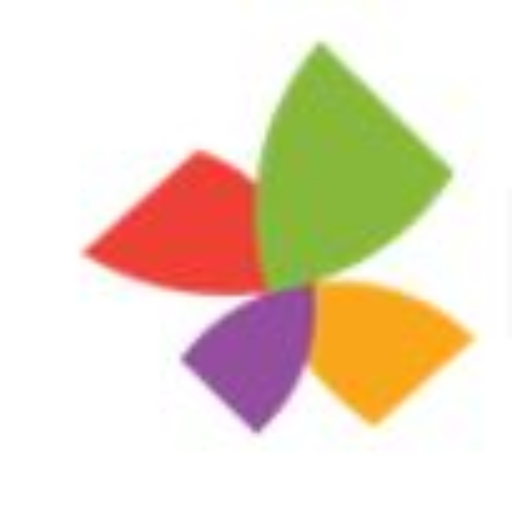
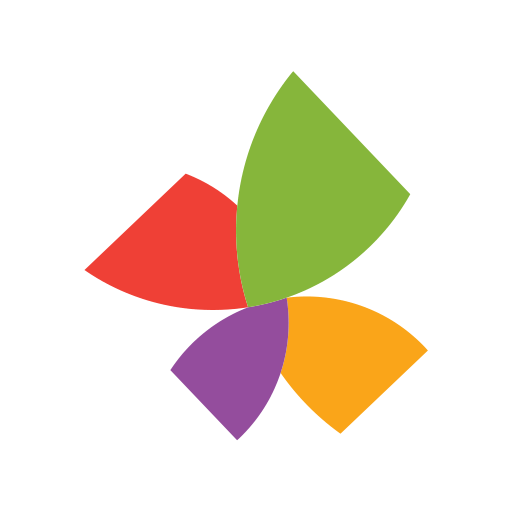
feat: 홈에 "휴대폰에 설치" — PC는 QR, 휴대폰은 갤럭시·아이폰별 설치 순서
- 홈 배너에 "휴대폰에 설치" 버튼
  · PC: 포털 주소 QR + 순서 3단계 + 아이콘 미리보기 + 카카오톡 주의
  · 휴대폰: 갤럭시(삼성 인터넷·크롬) / 아이폰(사파리) 탭으로 "홈 화면에 추가" 순서
- 휴대폰 아이콘을 회사 로고 원본의 리본으로 다시 만듦 (예전 것은 작은 그림을 늘려 흐렸음)
  · android-chrome 192·512, apple-touch-icon 교체, 안드로이드용 maskable-512 추가
- site.webmanifest: 앱처럼 열리게 display standalone, start_url·scope, 아이콘 ?v=3
- 안내창은 기존 orgModal 재사용, isPhone() 을 평가·성과 PC 전용 판단과 같이 씀

Changed region(s): [[0.1562, 0.0625, 0.9375, 0.875]]

diff --git a/public/index.html b/public/index.html
@@ -7,8 +7,12 @@
 <link rel="icon" href="favicon.ico?v=2" sizes="48x48">
 <link rel="icon" type="image/png" sizes="32x32" href="favicon-32x32.png?v=2">
 <link rel="icon" type="image/png" sizes="16x16" href="favicon-16x16.png?v=2">
-<link rel="apple-touch-icon" sizes="180x180" href="apple-touch-icon.png">
+<link rel="apple-touch-icon" sizes="180x180" href="apple-touch-icon.png?v=3">
 <link rel="manifest" href="site.webmanifest">
+<meta name="theme-color" content="#ffffff">
+<meta name="mobile-web-app-capable" content="yes">
+<meta name="apple-mobile-web-app-capable" content="yes">
+<meta name="apple-mobile-web-app-title" content="인사포털">
 <link rel="stylesheet" href="https://cdn.jsdelivr.net/gh/orioncactus/pretendard@v1.3.9/dist/web/static/pretendard.min.css">
 <style>
   /* 배색: 사용자 지정 6색(#D2EEFA #A3D8F1 #54A6E1 #255DAA #DE525E #FCE0D4) 기준.
@@ -159,6 +163,31 @@
   .hero-banner::after{ width:130px; height:130px; right:110px; bottom:-70px; background:var(--bg-warning); }
   .hero-title{ font-size:var(--fs-xl); font-weight:800; color:var(--text-primary); line-height:1.4; letter-spacing:-0.02em; margin:0 0 6px; position:relative; z-index:1; }
   .hero-sub{ font-size:var(--fs-sm); color:#3A4A5E; position:relative; z-index:1; }
+  /* 홈 배너의 "휴대폰에 설치" 버튼과 그 안내창 */
+  .hero-install{ position:absolute; z-index:2; right:28px; top:50%; transform:translateY(-50%); display:inline-flex; align-items:center; gap:8px;
+    padding:11px 18px; border:0; border-radius:999px; background:#fff; color:var(--accent); font-family:inherit; font-size:var(--fs-md); font-weight:700;
+    cursor:pointer; box-shadow:0 6px 18px rgba(37,93,170,.22); }
+  .hero-install:hover{ background:var(--accent-soft); }
+  .hero-install svg{ width:18px; height:18px; }
+  .org-modal .card:has(.inst-qr){ max-width:560px; }
+  .inst{ word-break:keep-all; }
+  .inst-body{ display:flex; gap:22px; align-items:flex-start; }
+  .inst-qr{ flex:none; width:188px; text-align:center; font-size:var(--fs-xs); color:var(--text-muted); }
+  .inst-qr svg{ display:block; width:100%; height:auto; margin-bottom:8px; padding:8px; box-sizing:border-box; border:1px solid var(--border); border-radius:var(--radius); background:#fff; }
+  .inst-steps{ flex:1; min-width:0; margin:0; padding:0; list-style:none; }
+  .inst-steps li{ display:flex; gap:10px; padding:9px 0; border-bottom:1px solid var(--border); line-height:1.5; }
+  .inst-steps li:last-child{ border-bottom:0; }
+  .inst-steps li > i{ flex:none; width:22px; height:22px; margin-top:1px; border-radius:50%; background:var(--accent); color:#fff; font-style:normal; font-size:12px; font-weight:700;
+    display:flex; align-items:center; justify-content:center; }
+  .inst-sub{ margin:12px 0 0; font-size:var(--fs-sm); font-weight:700; color:var(--text-secondary); }
+  .inst-tabs{ display:flex; gap:6px; }
+  .inst-tabs button{ flex:1; min-height:44px; border:1px solid var(--border); border-radius:var(--radius-sm); background:var(--surface); color:var(--text-secondary);
+    font-family:inherit; font-size:var(--fs-md); font-weight:600; cursor:pointer; }
+  .inst-tabs button[aria-pressed="true"]{ background:var(--accent-light); border-color:var(--accent-light); color:var(--accent); font-weight:700; }
+  .inst-app{ display:flex; align-items:center; gap:12px; margin-top:14px; padding:10px 12px; border-radius:var(--radius); background:var(--bg-page); font-size:var(--fs-sm); color:var(--text-secondary); }
+  .inst-app figure{ flex:none; margin:0; text-align:center; font-size:11px; color:var(--text-primary); }
+  .inst-app img{ display:block; width:52px; height:52px; margin:0 auto 4px; border-radius:14px; box-shadow:0 2px 8px rgba(27,36,51,.18); }
+  .inst-note{ margin-top:12px; padding:8px 10px; border-radius:var(--radius-sm); background:var(--bg-warning); color:var(--warning); font-size:var(--fs-xs); line-height:1.5; }
   .field-row{ display:grid; grid-template-columns:1fr 1fr; gap:14px; margin-bottom:14px; }
   .field label{ display:block; font-size:var(--fs-xs); font-weight:600; color:var(--text-secondary); margin-bottom:6px; }
   .field input, .field select, .field textarea{
@@ -540,6 +569,7 @@
     .hero-banner{ padding:20px; }
     .hero-banner::before{ width:150px; height:150px; right:-60px; top:-60px; }
     .hero-banner::after{ display:none; }
+    .hero-install{ position:relative; right:auto; top:auto; transform:none; margin-top:14px; min-height:44px; padding:9px 16px; font-size:var(--fs-sm); }
     .quick-grid{ grid-template-columns:repeat(3,1fr); }
     .grid.g2, .grid.g3, .grid.g4{ grid-template-columns:1fr; }
     .field-row{ grid-template-columns:1fr; }
@@ -669,6 +699,7 @@ const ICONS = {
   eyeOff:'<path d="M17.9 17.9A10.1 10.1 0 0 1 12 20c-7 0-11-8-11-8a18.5 18.5 0 0 1 5.1-5.9"/><path d="M9.9 4.2A9.1 9.1 0 0 1 12 4c7 0 11 8 11 8a18.5 18.5 0 0 1-2.2 3.2"/><line x1="1" y1="1" x2="23" y2="23"/>',
   flag:'<path d="M4 15s1-1 4-1 5 2 8 2 4-1 4-1V3s-1 1-4 1-5-2-8-2-4 1-4 1z"/><line x1="4" y1="22" x2="4" y2="15"/>',
   monitor:'<rect x="3" y="4" width="18" height="12" rx="2"/><path d="M8 20h8M12 16v4"/>',
+  mobile:'<rect x="7" y="2" width="10" height="20" rx="2"/><path d="M11 18h2"/>',
   coffee:'<path d="M18 8h1a4 4 0 0 1 0 8h-1"/><path d="M2 8h16v9a4 4 0 0 1-4 4H6a4 4 0 0 1-4-4V8z"/><line x1="6" y1="1" x2="6" y2="4"/><line x1="10" y1="1" x2="10" y2="4"/><line x1="14" y1="1" x2="14" y2="4"/>',
 };
 function icon(name, cls=''){ return `<svg class="${cls}" aria-hidden="true" viewBox="0 0 24 24" fill="none" stroke="currentColor" stroke-width="2" stroke-linecap="round" stroke-linejoin="round">${ICONS[name]}</svg>`; }
@@ -688,6 +719,7 @@ function homeContent(){
   <div class="hero-banner">
     <h2 class="hero-title">함께 만드는 성장,<br>더 편리해지는 인사업무</h2>
     <div class="hero-sub">H&abyz 인사포털에서 급여·출장·평가·규정을 한 곳에서 확인하세요</div>
+    <button type="button" class="hero-install" onclick="installNotice()">${icon('mobile')}휴대폰에 설치</button>
   </div>
   <div class="card" style="margin-bottom:14px;">
     <div class="card-title">빠른 서비스</div>
@@ -3197,6 +3229,41 @@ function evResultContent(){
     <div class="list-sub">시연용 가상 결과입니다. 결과를 보려면 HR로 바꿔 "시연: 확정 상태로 채우기" → "전 직원에게 결과 공개"를 누르세요. 지난 연도 결과도 가상 값입니다.</div>`;
 }
 
+/* ---------------- 휴대폰에 설치 (홈 화면에 바로가기) ----------------
+   2026-10-08 인사담당자 지시. PC에서는 포털 주소 QR을, 휴대폰에서는 갤럭시·아이폰별 "홈 화면에 추가" 순서를 보여 준다.
+   앱 장터에서 받는 앱이 아니라 사이트 바로가기다 — 아이콘·이름·여는 방식은 site.webmanifest 가 정한다.
+   QR은 운영 주소 하나를 미리 바꿔 둔 무늬다(행마다 1=검은 칸). 주소가 바뀌면 다시 만든다 — 만드는 법은 CLAUDE.md. */
+const INSTALL_QR = '1111111001110110001111111|1000001010101000001000001|1011101011110011101011101|1011101011011101101011101|1011101001110000101011101|1000001000011100101000001|1111111010101010101111111|0000000010100000100000000|1000001011111100011001110|0011010010110111110111110|1011001111010111001001011|1000000000000001000011001|1111011111111000011100001|1001100011100011100100010|1011111110011111110111011|1000010100010000100101101|1011101101111110111110100|0000000010001101100010000|1111111000110000101010001|1000001000010011100010011|1011101000111111111110100|1011101000111000011000011|1011101001100101000001101|1000001000111000101110001|1111111010001000101001001';
+function installQrSvg(){
+  const rows = INSTALL_QR.split('|'), n = rows.length, q = 4;   // q = 둘레 흰 여백(칸). 없으면 카메라가 못 읽는다
+  let d = ''; rows.forEach((row, r)=>[...row].forEach((b, c)=>{ if(b==='1') d += `M${c+q} ${r+q}h1v1h-1z`; }));
+  return `<svg viewBox="0 0 ${n+2*q} ${n+2*q}" shape-rendering="crispEdges" role="img" aria-label="인사포털 주소 QR"><rect width="100%" height="100%" fill="#fff"/><path d="${d}" fill="#1B2433"/></svg>`;
+}
+const INSTALL_STEPS = {
+  galaxy: ['갤럭시', [
+    ['삼성 인터넷으로 열렸을 때', ['화면 아래쪽 <b>메뉴(≡)</b>를 누릅니다.', '<b>현재 페이지 추가</b>를 누릅니다.', '<b>홈 화면</b>을 고르고 <b>추가</b>를 누릅니다.']],
+    ['크롬으로 열렸을 때', ['화면 오른쪽 위 <b>⋮</b>를 누릅니다.', '<b>홈 화면에 추가</b>(또는 앱 설치)를 누릅니다.', '<b>설치</b>(또는 추가)를 누릅니다.']],
+  ]],
+  iphone: ['아이폰', [
+    ['사파리로 열렸을 때', ['화면 아래쪽 <b>공유 버튼</b>(네모에서 화살표가 위로 나가는 모양)을 누릅니다.', '목록을 위로 올려 <b>홈 화면에 추가</b>를 누릅니다.', '오른쪽 위 <b>추가</b>를 누릅니다.']],
+  ]],
+};
+function installNotice(tab){
+  const head = t=>`<div class="card-title"><span>${t}</span><button type="button" class="x-btn" onclick="orgCloseModal()" aria-label="닫기">${icon('x')}</button></div>`;
+  const steps = list=>`<ol class="inst-steps">${list.map((t, i)=>`<li><i>${i+1}</i><span>${t}</span></li>`).join('')}</ol>`;
+  const app = `<div class="inst-app"><figure><img src="android-chrome-192x192.png?v=3" alt="" width="52" height="52">인사포털</figure><span>설치하면 휴대폰 홈 화면에 <b>회사 리본 아이콘</b>이 생깁니다.</span></div>`;
+  if(!isPhone()) return orgModal(`<div class="inst">${head('휴대폰에 인사포털 설치')}
+    <div class="inst-body"><div class="inst-qr">${installQrSvg()}휴대폰 카메라로 찍어 주세요</div>
+      ${steps(['휴대폰 <b>기본 카메라</b>로 왼쪽 QR을 찍습니다.', '열린 인사포털에서 <b>휴대폰에 설치</b>를 누릅니다. 갤럭시·아이폰에 맞는 순서가 나옵니다.', '홈 화면에 생긴 아이콘으로 바로 들어옵니다.'])}</div>
+    ${app}<div class="inst-note">카카오톡으로 QR을 찍으면 설치가 되지 않습니다. 휴대폰 기본 카메라로 찍어 주세요.</div></div>`);
+  tab = tab || (/iPhone|iPad|iPod/.test(navigator.userAgent) ? 'iphone' : 'galaxy');
+  orgModal(`<div class="inst">${head('이 휴대폰에 설치하기')}
+    <div class="inst-tabs">${Object.keys(INSTALL_STEPS).map(k=>`<button type="button" aria-pressed="${k===tab}" onclick="installNotice('${k}')">${INSTALL_STEPS[k][0]}</button>`).join('')}</div>
+    ${INSTALL_STEPS[tab][1].map(g=>`<p class="inst-sub">${g[0]}</p>${steps(g[1])}`).join('')}
+    ${app}<div class="inst-note">카카오톡 안에서 열린 화면에서는 설치가 되지 않습니다. 메뉴에서 <b>다른 브라우저로 열기</b>를 먼저 눌러 주세요.</div>
+    <button type="button" class="btn primary" style="width:100%; justify-content:center; margin-top:14px;" onclick="orgCloseModal()">확인</button></div>`);
+}
+
 /* ---------------- 탕비실 ----------------
    게임 "X-ray 특공대"는 public/xray/ 에 따로 있는 화면이다(그림·음악·글꼴 포함). 게임 코드를 이 파일에 섞지 않는다.
    포털 안에 창(iframe)으로 띄우지 않고 그 주소로 바로 보낸다 — iframe 안에서는 휴대폰 "폰에 설치"가 안 된다(게임 원본의 연결 안내).
@@ -3296,7 +3363,8 @@ function renderSidebar(){
    휴대폰 기준은 화면이 휴대폰 배치로 바뀌는 폭(768px)과 같다. 들어오는 길(왼쪽 메뉴·홈 KPI 아이콘·홈 KPI 카드)이
    전부 selectNav를 거치므로 여기 한 곳에서 막는다. 화면만 막는 안내다 — 데이터 보호는 로그인 이후 서버에서 한다. */
 const PC_ONLY_NAV = 'perf';
-function pcOnlyBlocked(id){ return id===PC_ONLY_NAV && matchMedia('(max-width:768px)').matches; }
+function isPhone(){ return matchMedia('(max-width:768px)').matches; }   // 휴대폰 배치로 바뀌는 폭과 같다
+function pcOnlyBlocked(id){ return id===PC_ONLY_NAV && isPhone(); }
 function pcOnlyNotice(){
   closeSidebar();
   orgModal(`<div style="text-align:center; padding:8px 2px 0; word-break:keep-all;">

diff --git a/CLAUDE.md b/CLAUDE.md
@@ -135,6 +135,12 @@ CI(`.github/workflows/ci.yml`)가 자동 검사하는 것: 한글 인코딩, HTM
   - 탕비실 화면의 게임 그림은 `public/img/pantry/xray-title.jpg`(인사담당자가 준 타이틀 화면 캡처). 게임 폴더(`public/xray/`)는 통째로 덮어쓰므로 포털이 쓰는 그림은 그 밖에 둔다.
   - 그림 외 자료 출처: 글꼴 `pixel.woff2`=둥근모꼴(퍼블릭 도메인), `stellar.otf`=동서대학교 스텔라체(무료 배포, 유료 판매·수정 재배포 금지), 음악=Not Jam Music Pack(CC0). 이 때문에 `.ci/check-public.sh` 허용 확장자에 `mp3`·`otf`를 더했다.
 - **평가·성과는 휴대폰에서 열리지 않는다 (2026-10-08, 인사담당자 지시)** — 작성과 평가의 정확성을 위해 PC에서만 작업한다. 휴대폰 폭(768px 이하, 휴대폰 배치로 바뀌는 기준과 같음)에서 평가·성과로 들어가려 하면 `selectNav`가 막고 "PC에서 이용해 주세요" 안내창(`pcOnlyNotice`, 기존 `orgModal` 재사용)을 띄운다. 들어오는 길(왼쪽 메뉴·홈 KPI 아이콘·홈 KPI 카드 링크)이 전부 `selectNav`/`goTo`를 거친다. 메뉴에는 흐리게 + "PC 전용" 표시. 홈의 "나의 KPI 현황" 카드는 휴대폰에서도 보인다(보기만). **화면만 막는 안내다** — 로그인 이후 서버에서도 막을지는 그때 정한다.
+- **휴대폰에 설치 (2026-10-08, 인사담당자 지시)** — 홈 배너의 "휴대폰에 설치" 버튼(`installNotice`). PC에서는 포털 주소 QR, 휴대폰(768px 이하)에서는 갤럭시·아이폰별 "홈 화면에 추가" 순서(`INSTALL_STEPS`)를 보여 준다. 앱 장터에서 받는 앱이 아니라 사이트 바로가기다.
+  - 아이콘·이름·여는 방식은 `public/site.webmanifest`가 정한다(`display: standalone` — 주소창 없이 열림). 아이폰용으로 `apple-mobile-web-app-*` 메타도 넣었다.
+  - 아이콘은 회사 로고 원본(일러스트 파일, 인사담당자 PC에만 있고 저장소에는 없음)에서 **리본 네 조각만** 뽑아 만들었다: `android-chrome-192x192`·`512x512`(일반), `maskable-512x512`(안드로이드가 동그랗게 잘라도 리본이 안 잘리게 여백을 넉넉히), `apple-touch-icon`(흰 배경 — 아이폰은 투명 배경을 검게 칠한다). **아이콘을 바꾸면 주소 뒤 `?v=` 숫자를 올린다**(manifest·index.html·안내창 세 곳).
+  - QR(`INSTALL_QR`)은 운영 주소를 미리 바꿔 둔 무늬다. 포털 주소가 바뀌면 다시 만든다(백엔드에 이미 있는 reportlab 사용): `python -c "from reportlab.graphics.barcode import qrencoder as q; c=q.QRCode(None,q.QRErrorCorrectLevel.M); c.addData('https://포털주소/'); c.make(); n=c.getModuleCount(); print('|'.join(''.join('1' if c.isDark(r,x) else '0' for x in range(n)) for r in range(n)))"`
+  - 급여·계약은 휴대폰에서도 열린다 — 금액은 눈 표시를 눌러야 보이므로 우선 허용(인사담당자 결정). 평가·성과만 PC 전용(위 항목).
+  - **로그인 이후 휴대폰으로 들어올 길은 아직 없다** — 설계상 출입구가 하이웍스 PC 메뉴 하나다(#51 댓글). 로그인 구현 전에 정해야 한다.
 - **공지사항 메뉴는 삭제됨 (2026-10-01, 인사담당자 지시)** — 하이웍스 공지와 겹친다. 홈 공지사항 카드도 함께 삭제.
 - **근태·휴가 메뉴는 삭제됨** (요구사항 미확정 상태로 방치되어 있었음). 나중에 다시 만들려면 NAV 배열에 새로 추가해야 한다 — 예전 구현은 git 히스토리에만 남아있다.
 - 라이트 테마 + H&abyz 로고(4색 핀휠 마크) + 홈 히어로 배너로 리디자인 완료. 모바일 반응형(햄버거 사이드바) 적용 완료.
